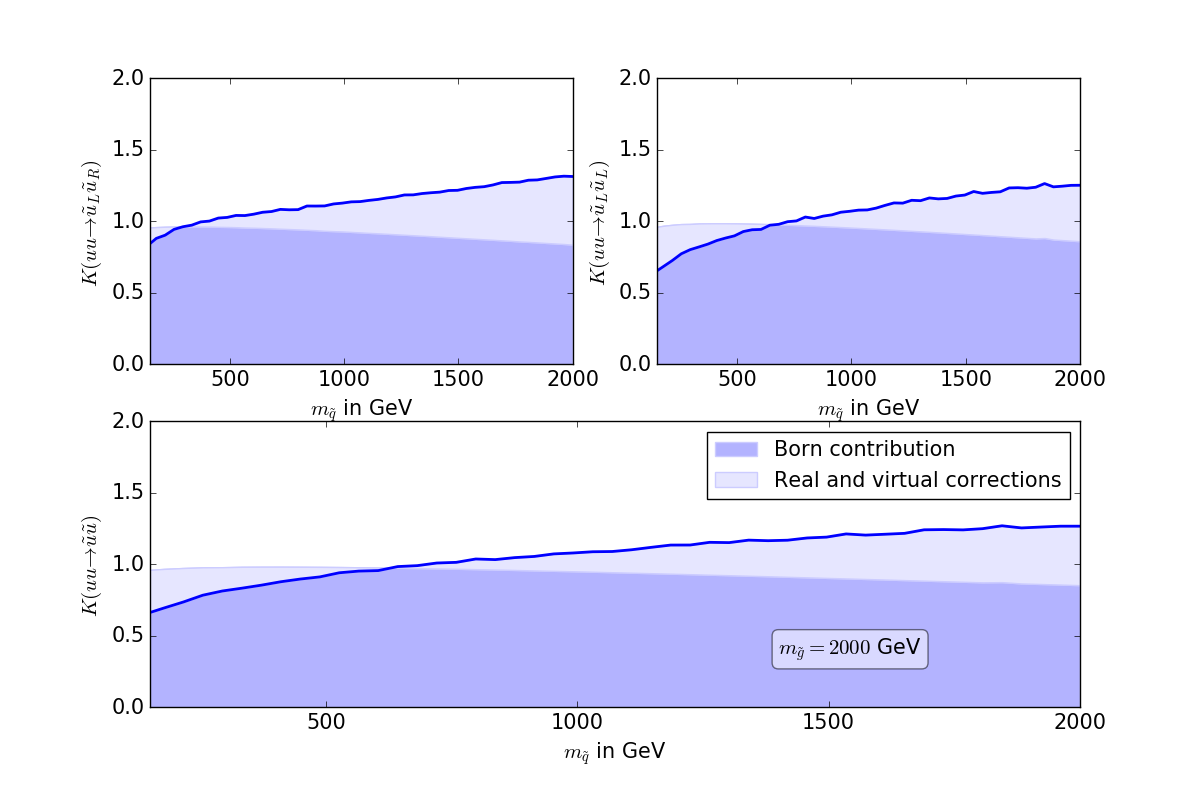
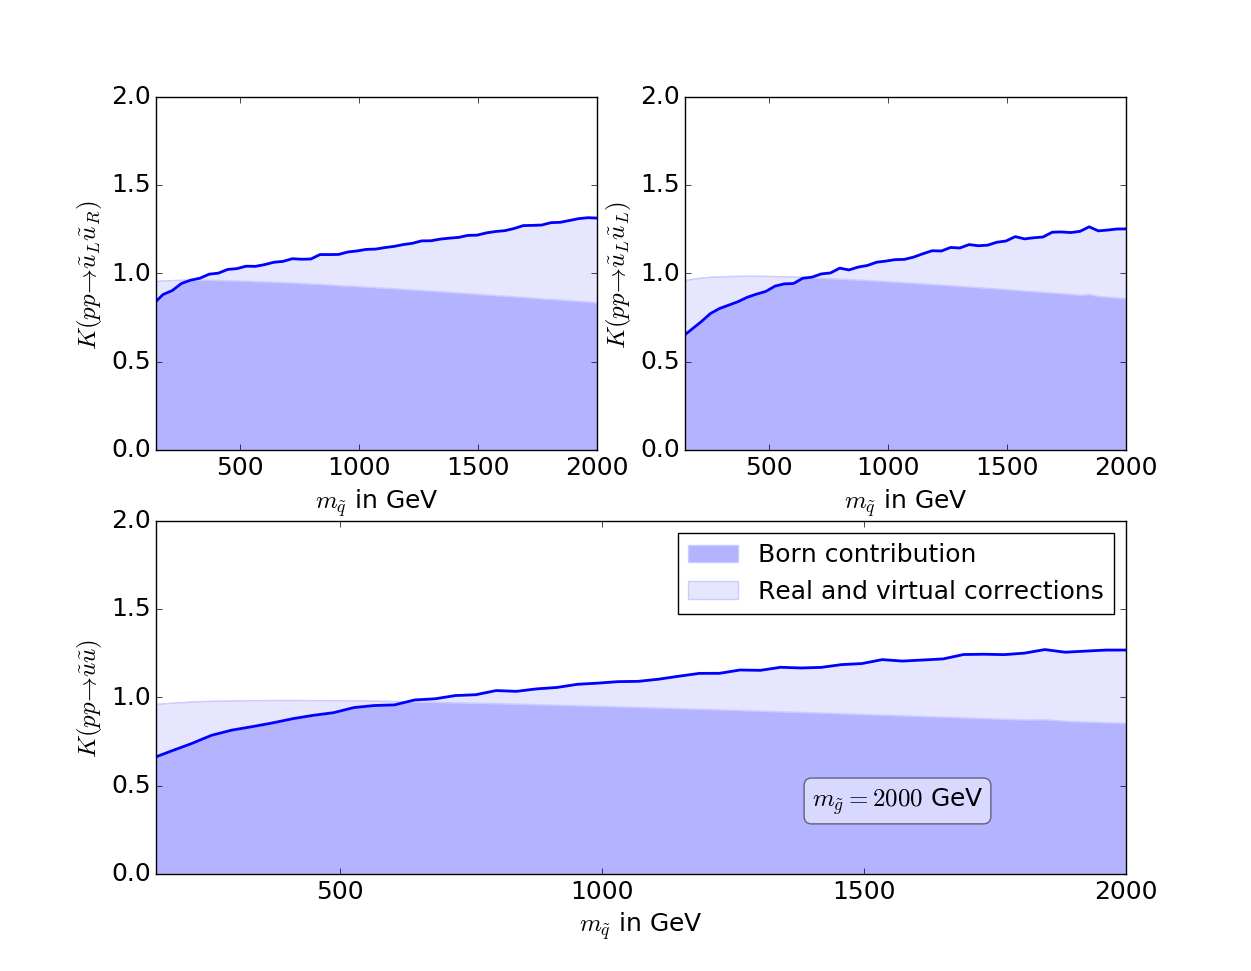
some changes

diff --git a/Renormalization.tex b/Renormalization.tex
@@ -861,8 +861,8 @@ RenConst[dMSu1[gen_]] := MassRC[S[13,{gen}]]
 RenConst[dZSd1[gen_]] := FieldRC[S[14,{gen}]]	
 RenConst[dMSd1[gen_]] := MassRC[S[14,{gen}]]
 
-RenConst[dZGlL1] := xZfL1[F[15], 0]
-RenConst[dZGlR1] := xZfR1[F[15], 0]
+RenConst[dZGlL1] := FieldRC[F[15]][[1]]
+RenConst[dZGlR1] := FieldRC[F[15]][[2]]
 RenConst[dZbarGlL1] := dZGlR1
 RenConst[dZbarGlR1] := dZGlL1
 RenConst[dMGl1] := MassRC[F[15]]
@@ -875,8 +875,8 @@ dZgs1restore := FiniteGs * g3*g3/(12*Pi*Pi)
 
 RenConst[dZGG1] := FieldRC[V[5]]
 \end{lstlisting}
-The first two lines encode the field renormalization constant of up- and down-type quarks. The function \texttt{FieldRC} actually calculates two renormalization constants when the argument is a fermion field: the left- and right-handed part. But these terms are identical since electroweak interactions are not considered within the modelfile. It therefore suffices to just pick the first element of the list. This is achieved with the addendum $\texttt{[[1]]}$.\\
-The next block of the code provides the renormalization constants of up- and down-type squarks, before the ensuing block deals with the gluino. Here, the predefined function \texttt{xZfL1} (\texttt{xZfR1}) is used to extract the field renormalization constant of the left- (right-) handed component of the Dirac-spinor.\\
+The first two lines encode the field renormalization constant of up- and down-type quarks. The function \texttt{FieldRC} actually calculates two renormalization constants when the argument is a fermion field: the left- and right-handed part. But these terms are identical since electroweak interactions are not considered within the modelfile. It therefore suffices to just pick the first element of the list. This is achieved with the addendum \texttt{[[$1$]]}.\\
+The next block of the code provides the renormalization constants of up- and down-type squarks, before the ensuing block deals with the gluino. Here, it is important to separate the calculation of the field renormalization constant of the left- (right-) handed component of the Dirac-spinor by adding \texttt{[[$1$]]} (\texttt{[[$2$]]}) at the end of \texttt{FieldRC[F[$15$]]} to pick the appropriate element of the list .\\
 Finally the gauge coupling renormalization and the supersymmetry restoring counterterm are implemented, before the gluon field is renormalized. The necessity of the parameter \texttt{FiniteGs} will be explained shortly.\\
 The result of these renormalization constants has been checked with the above calculated renormalization constants.
 

diff --git a/figures/One_Loop/MSSM/MSSM_uu_susu_Kfactors_msg=2000GeV.py b/figures/One_Loop/MSSM/MSSM_uu_susu_Kfactors_msg=2000GeV.py
@@ -59,13 +59,13 @@ K_min = 0
 K_max = 2
 
 fig = plt.figure(1,figsize=(12,8))
-font_size = 15
+font_size = 18
 #fig.suptitle(r'cross-sections for squark production at the LHC at $\sqrt{s}=13$TeV', fontsize=20)
 
 ############# first subplot #####################
 first_window = plt.subplot2grid((2,2), (0,0))
 plt.xlabel(r"$m_{\tilde{q}}$ in GeV", size = font_size)
-plt.ylabel(r"$K(uu \to \tilde{u}_L\tilde{u}_R)$ ", size = font_size)
+plt.ylabel(r"$K(pp \to \tilde{u}_L\tilde{u}_R)$ ", size = font_size)
 plt.xticks(fontsize = font_size)
 plt.yticks(fontsize = font_size)
 
@@ -87,7 +87,7 @@ plt.plot(m_gluino, sigma_NLO_1L_lr/sigma_LO_Tree_lr, lw=2, ls="-", c='blue')#, l
 ############# second subplot #####################
 second_window = plt.subplot2grid((2,2), (0,1))
 plt.xlabel(r"$m_{\tilde{q}}$ in GeV", size = font_size)
-plt.ylabel(r"$K(uu \to \tilde{u}_L\tilde{u}_L)$ ", size = font_size)
+plt.ylabel(r"$K(pp \to \tilde{u}_L\tilde{u}_L)$ ", size = font_size)
 plt.xticks(fontsize = font_size)
 plt.yticks(fontsize = font_size)
 
@@ -110,7 +110,7 @@ plt.plot(m_gluino, sigma_NLO_1L_ll/sigma_LO_Tree_ll, lw=2, ls="-", c='blue')#, l
 ############# third subplot #####################
 third_window = plt.subplot2grid((2,2), (1,0), colspan = 2)
 plt.xlabel(r"$m_{\tilde{q}}$ in GeV", size = font_size)
-plt.ylabel(r"$K(uu \to \tilde{u}\tilde{u})$ ", size = font_size)
+plt.ylabel(r"$K(pp \to \tilde{u}\tilde{u})$ ", size = font_size)
 plt.xticks(fontsize = font_size)
 plt.yticks(fontsize = font_size)
 

diff --git a/figures/One_Loop/MSSM/MSSM_uu_susu_Kfactors_msq=1000GeV.py b/figures/One_Loop/MSSM/MSSM_uu_susu_Kfactors_msq=1000GeV.py
@@ -59,13 +59,13 @@ K_min = 0
 K_max = 2
 
 fig = plt.figure(1,figsize=(12,8))
-font_size = 15
+font_size = 18
 #fig.suptitle(r'cross-sections for squark production at the LHC at $\sqrt{s}=13$TeV', fontsize=20)
 
 ############# first subplot #####################
 first_window = plt.subplot2grid((2,2), (0,0))
 plt.xlabel(r"$m_{\tilde{g}}$ in GeV", size = font_size)
-plt.ylabel(r"$K(uu \to \tilde{u}_L\tilde{u}_R)$ ", size = font_size)
+plt.ylabel(r"$K(pp \to \tilde{u}_L\tilde{u}_R)$ ", size = font_size)
 plt.xticks(fontsize = font_size)
 plt.yticks(fontsize = font_size)
 
@@ -87,7 +87,7 @@ plt.plot(m_gluino, sigma_NLO_1L_lr/sigma_LO_Tree_lr, lw=2, ls="-", c='blue')#, l
 ############# second subplot #####################
 second_window = plt.subplot2grid((2,2), (0,1))
 plt.xlabel(r"$m_{\tilde{g}}$ in GeV", size = font_size)
-plt.ylabel(r"$K(uu \to \tilde{u}_L\tilde{u}_L)$ ", size = font_size)
+plt.ylabel(r"$K(pp \to \tilde{u}_L\tilde{u}_L)$ ", size = font_size)
 plt.xticks(fontsize = font_size)
 plt.yticks(fontsize = font_size)
 
@@ -110,7 +110,7 @@ plt.plot(m_gluino, sigma_NLO_1L_ll/sigma_LO_Tree_ll, lw=2, ls="-", c='blue')#, l
 ############# third subplot #####################
 third_window = plt.subplot2grid((2,2), (1,0), colspan = 2)
 plt.xlabel(r"$m_{\tilde{g}}$ in GeV", size = font_size)
-plt.ylabel(r"$K(uu \to \tilde{u}\tilde{u})$ ", size = font_size)
+plt.ylabel(r"$K(pp \to \tilde{u}\tilde{u})$ ", size = font_size)
 plt.xticks(fontsize = font_size)
 plt.yticks(fontsize = font_size)
 
